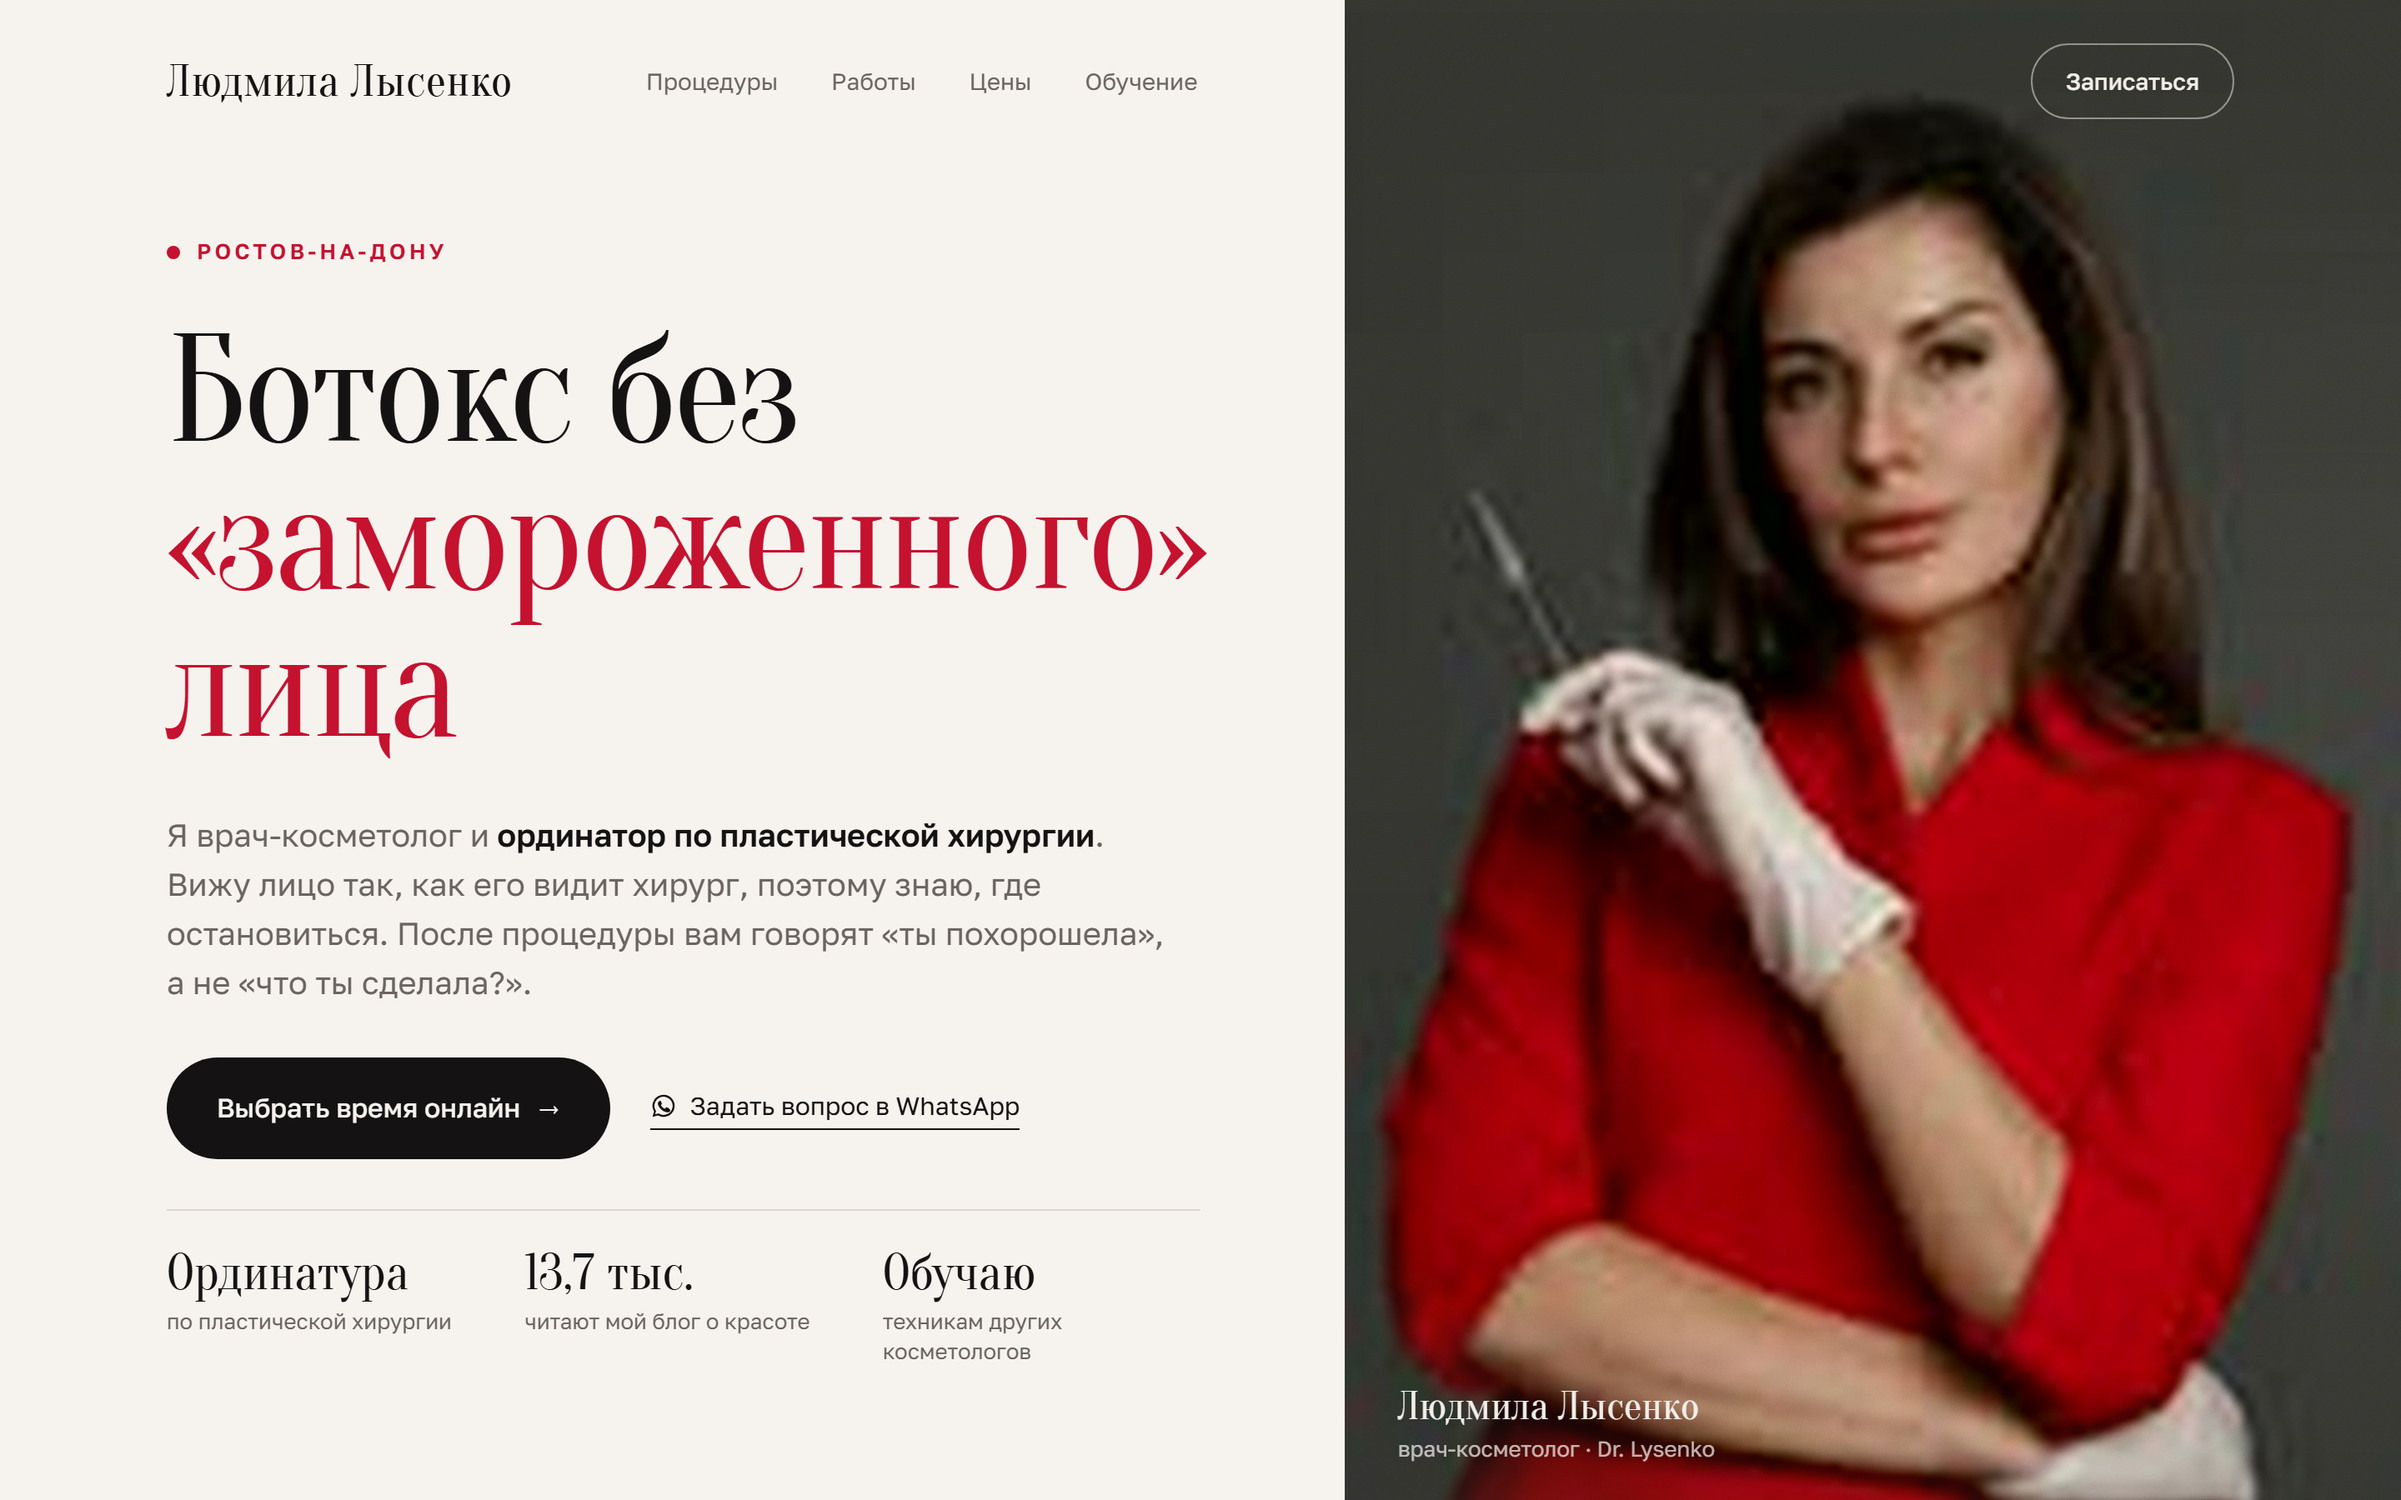
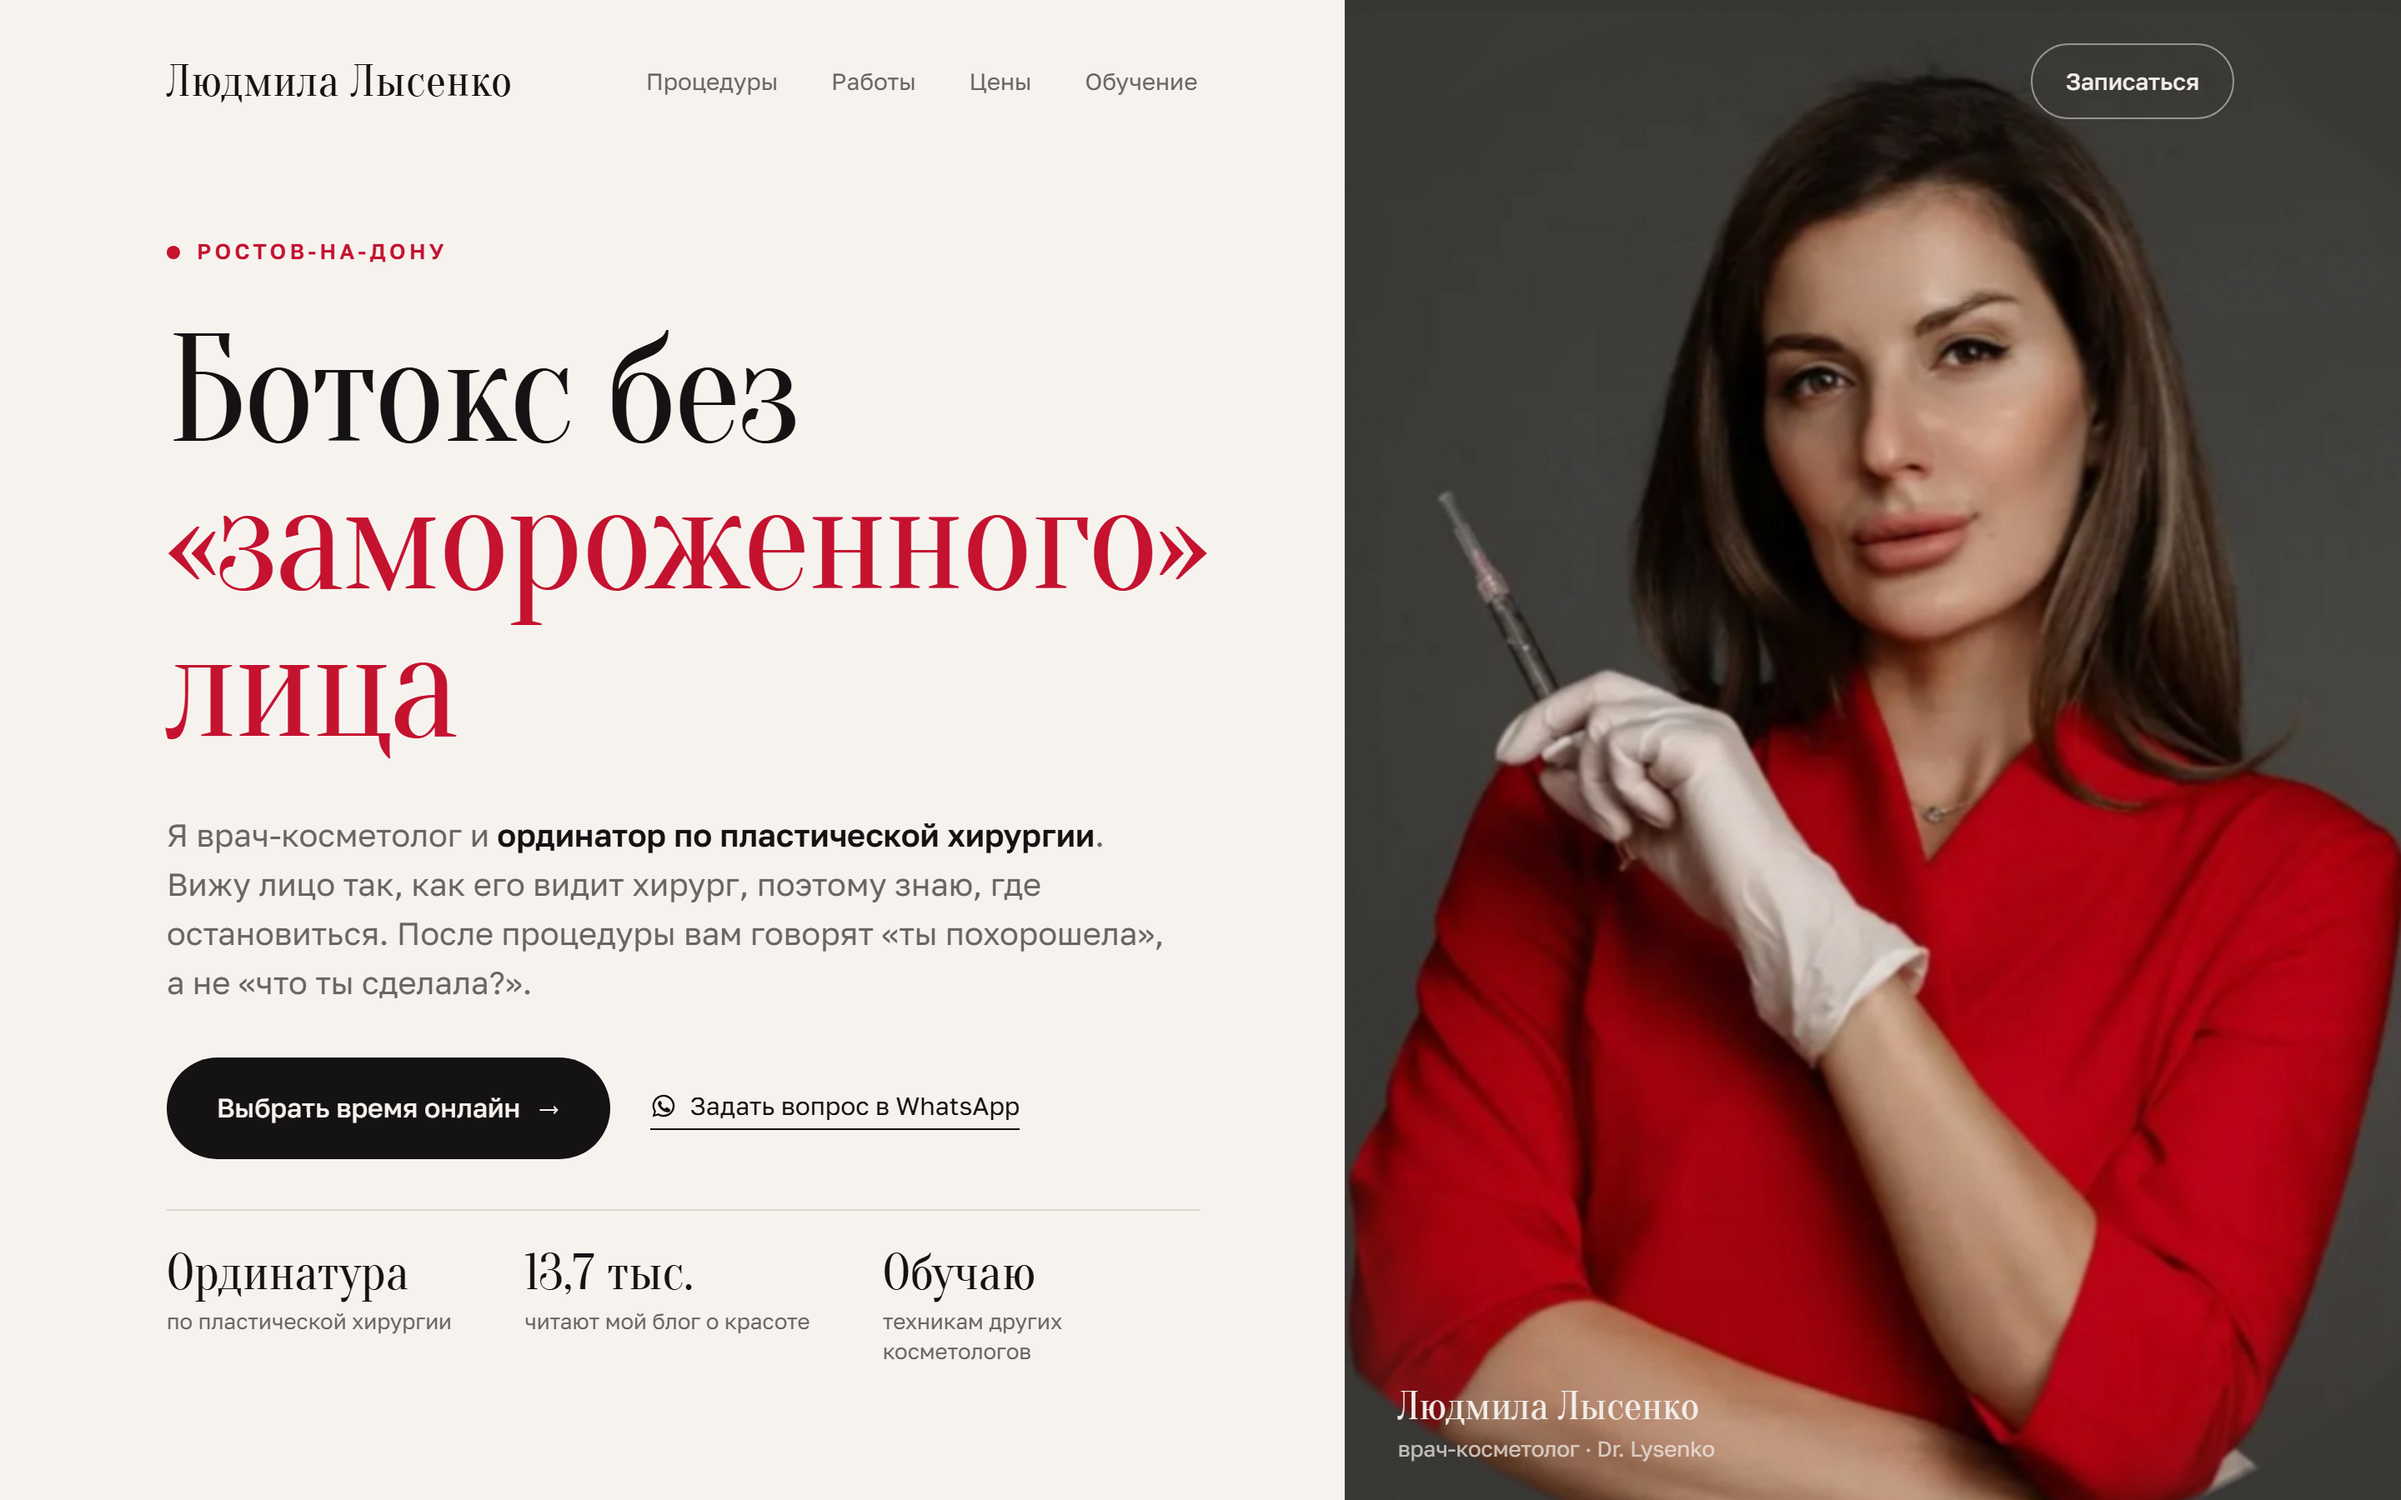
Чёткое фото врача

Changed region(s): [[0.5625, 0.0311, 1.0, 1.0]]

diff --git a/index.html b/index.html
@@ -54,9 +54,9 @@ a:focus-visible { outline: 2px solid var(--scarlet); outline-offset: 4px; border
 }
 .studio img {
   position: absolute; left: 50%; bottom: 0; transform: translateX(-50%);
-  height: 100%; max-height: 900px; width: auto; max-width: none; aspect-ratio: 1 / 1;
-  -webkit-mask-image: radial-gradient(75% 85% at 50% 45%, #000 60%, transparent 100%);
-          mask-image: radial-gradient(75% 85% at 50% 45%, #000 60%, transparent 100%);
+  height: 100%; max-height: 900px; width: auto; max-width: none; aspect-ratio: 1170 / 1470;
+  -webkit-mask-image: radial-gradient(80% 90% at 50% 45%, #000 62%, transparent 100%);
+          mask-image: radial-gradient(80% 90% at 50% 45%, #000 62%, transparent 100%);
 }
 .studio::after { /* film grain evens out the enlarged photo */
   content: ""; position: absolute; inset: 0; opacity: .14; mix-blend-mode: overlay; pointer-events: none;
@@ -148,7 +148,7 @@ h1 .accent { color: var(--scarlet); display: block; }
 
 <div class="page">
   <figure class="studio">
-    <img src="img/lyudmila.jpg" alt="Людмила Лысенко, врач-косметолог" width="900" height="900">
+    <img src="img/lyudmila.jpg" alt="Людмила Лысенко, врач-косметолог" width="1170" height="1470">
     <figcaption><b>Людмила Лысенко</b><span>врач-косметолог · Dr. Lysenko</span></figcaption>
   </figure>
 
